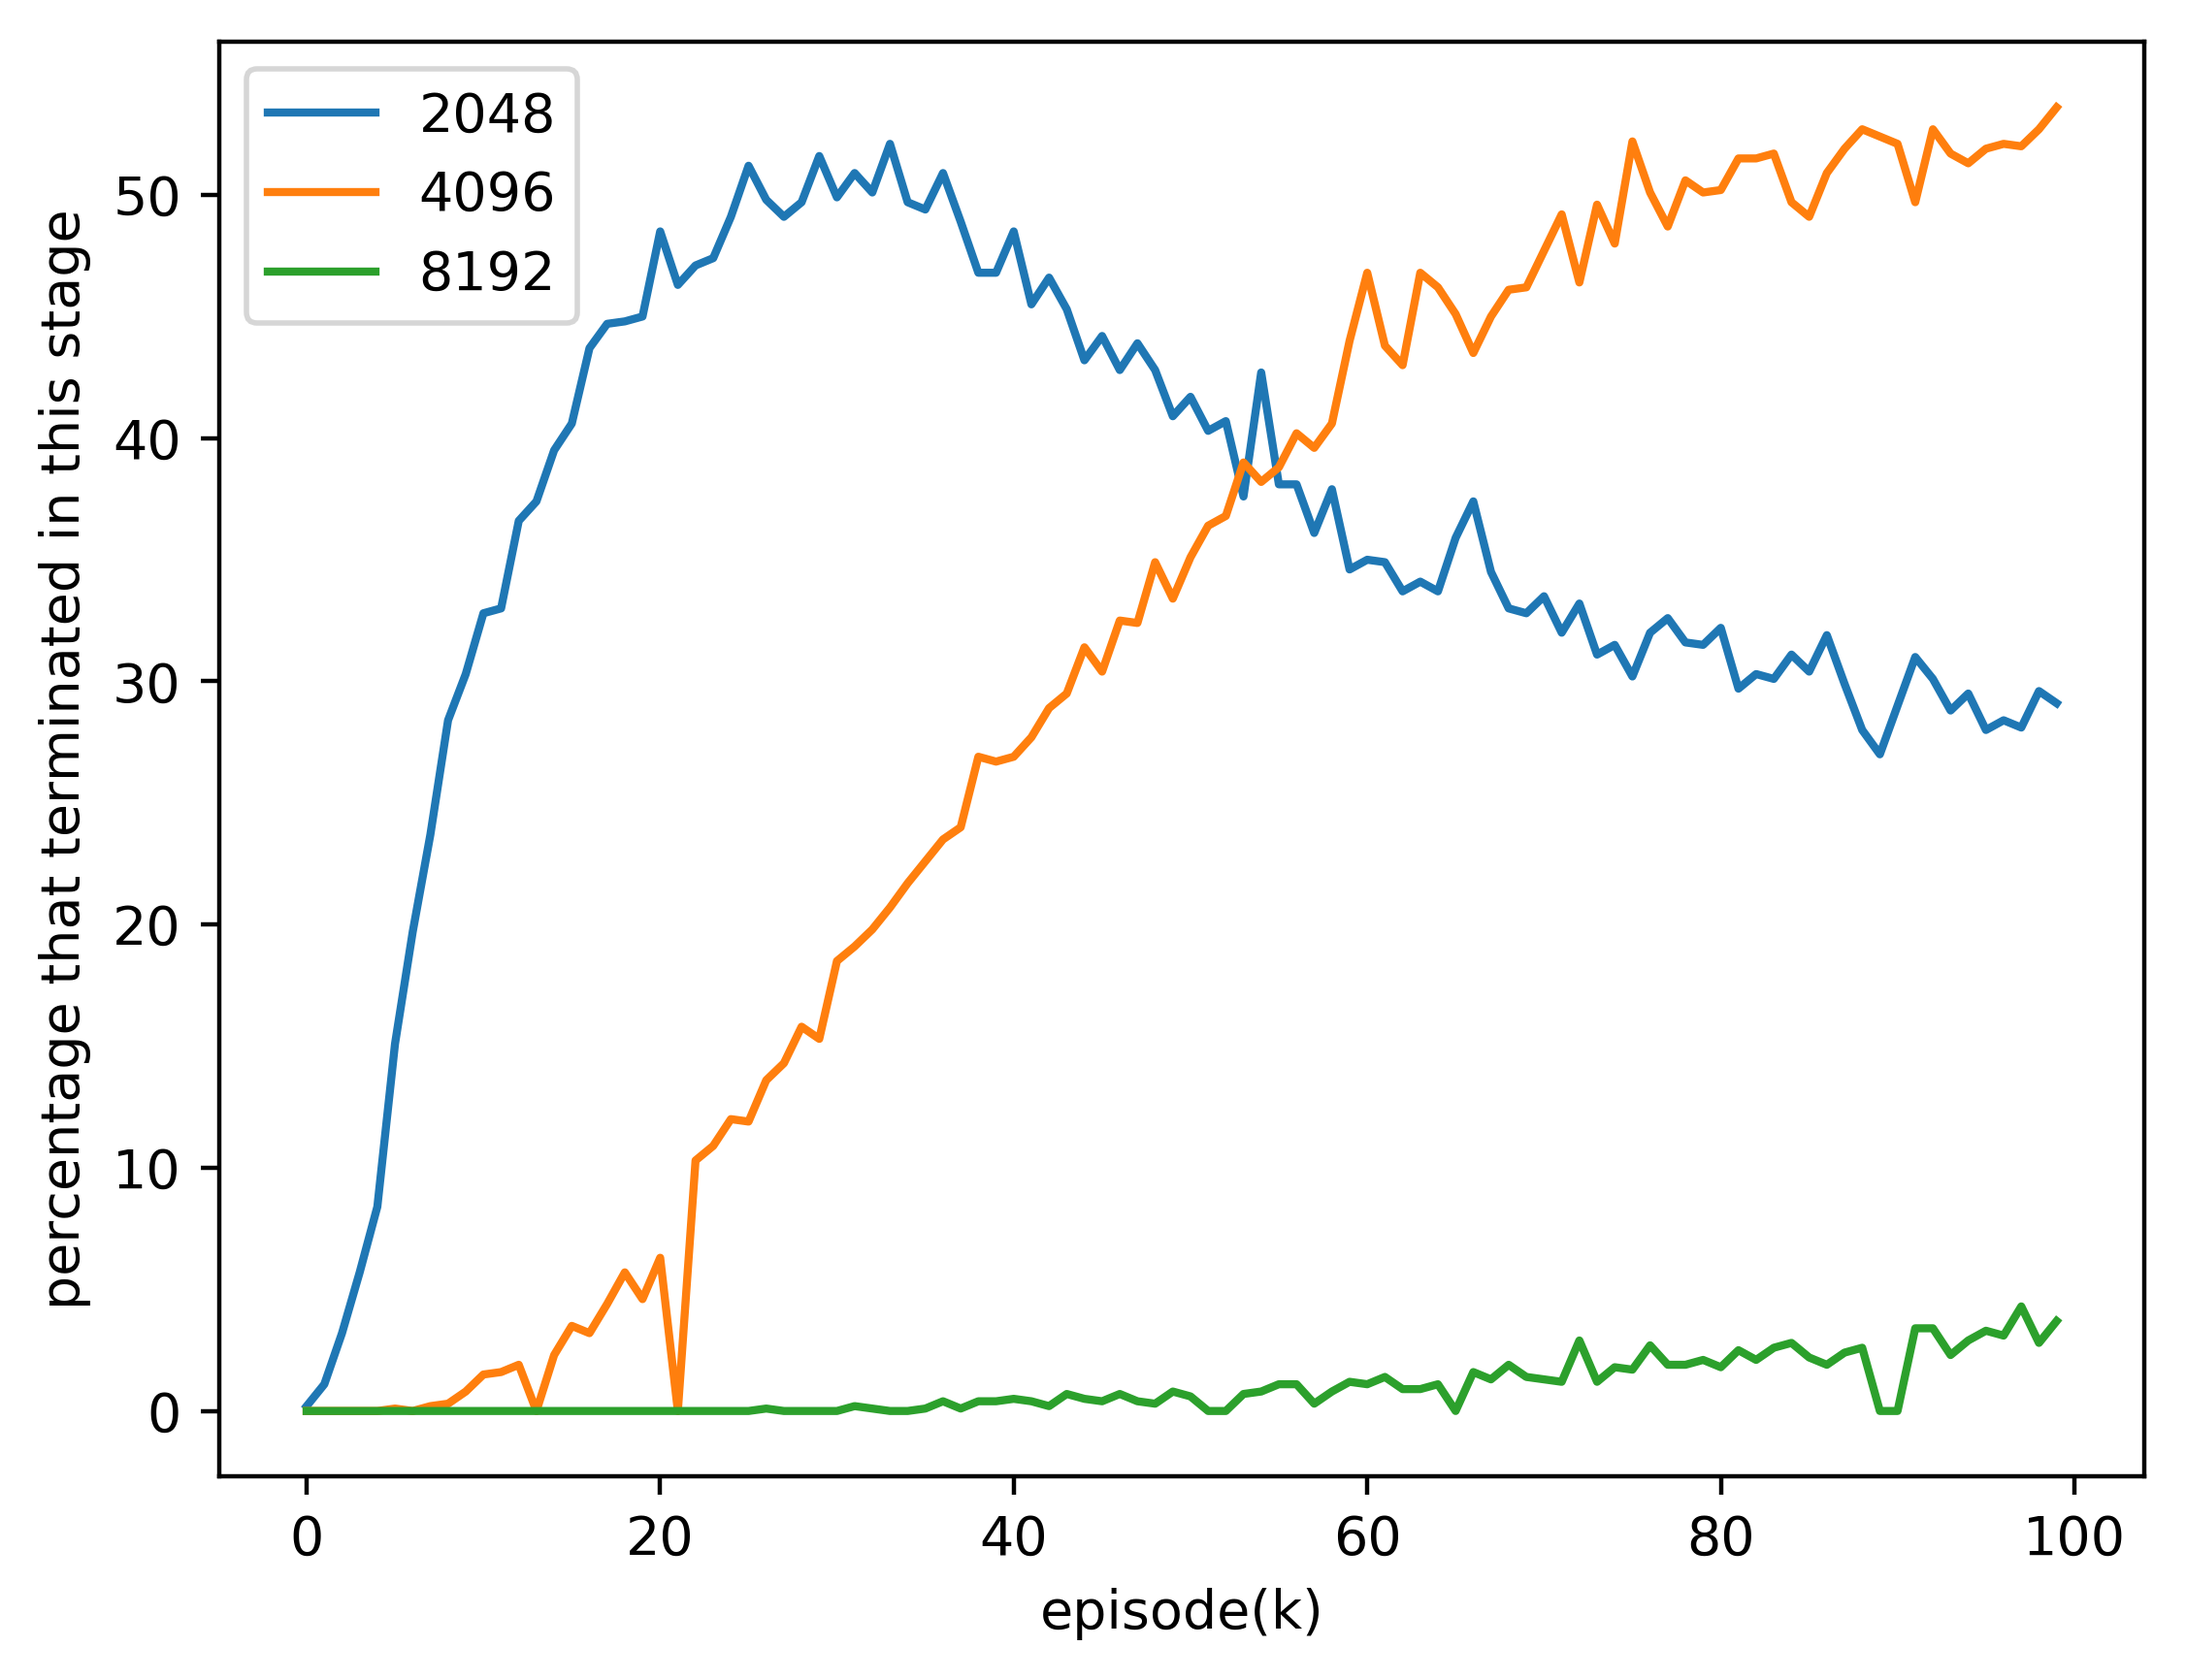
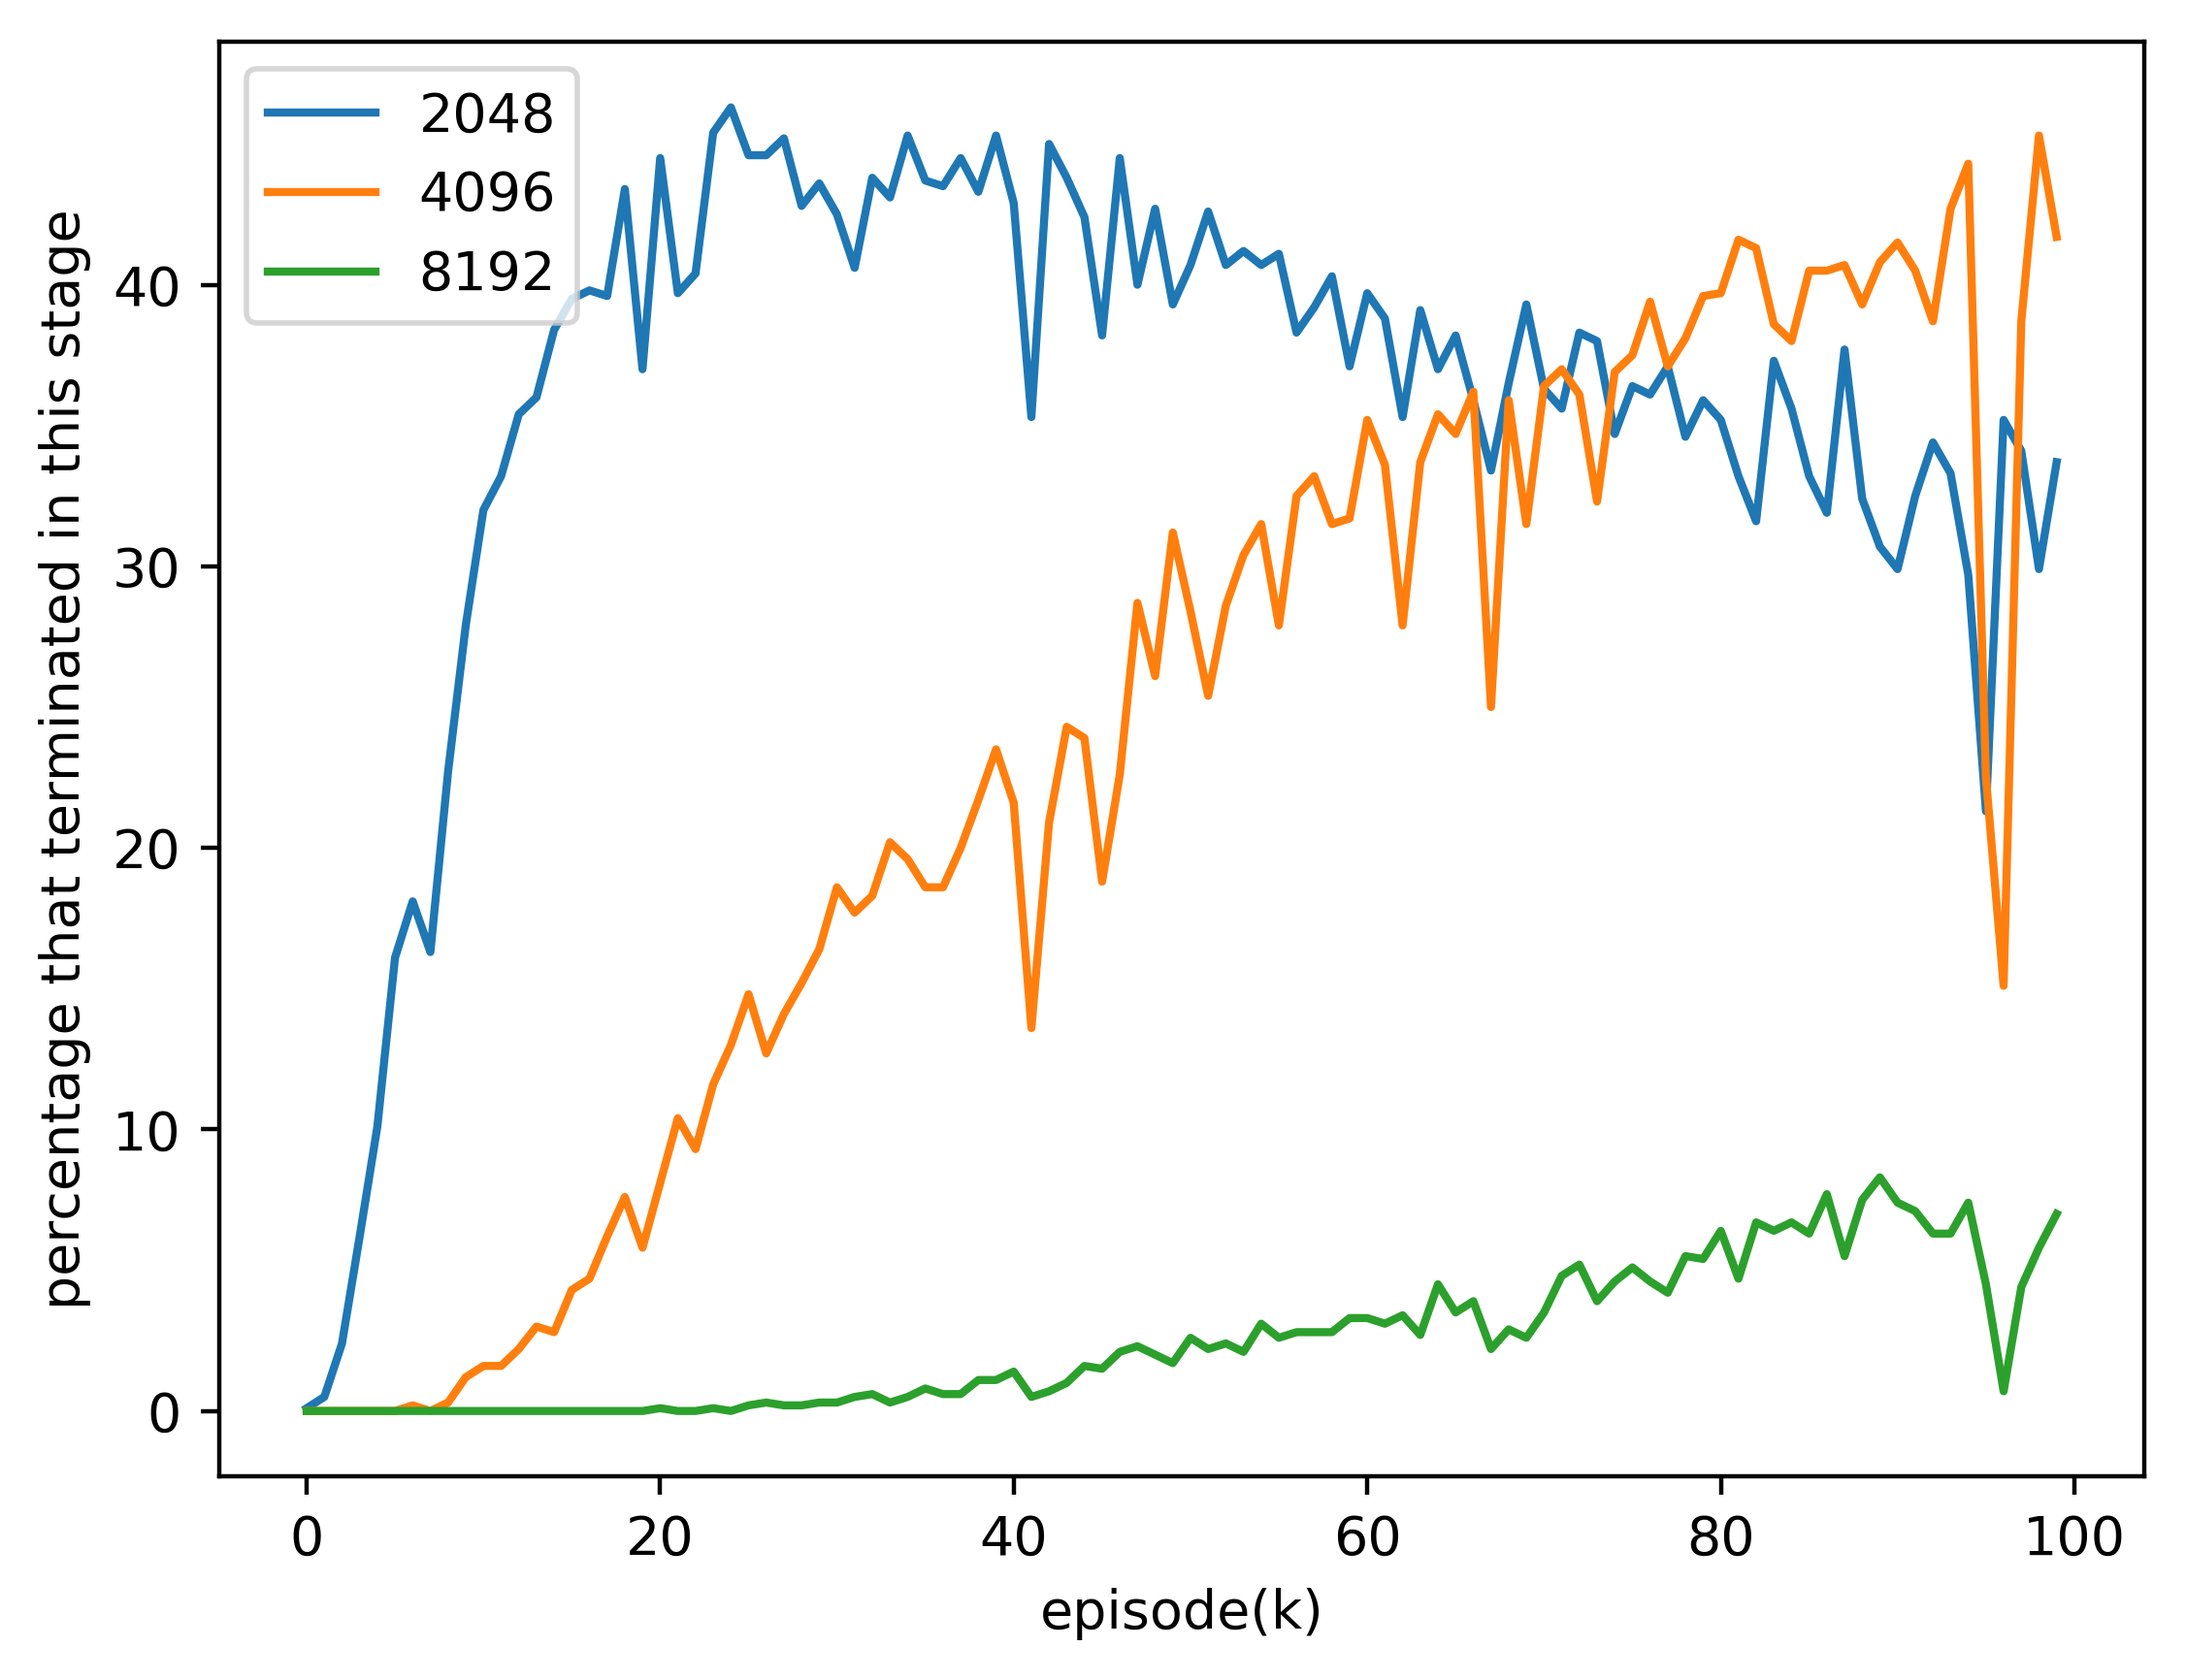
update result

diff --git a/VisaulizeMultipleResult.py b/VisaulizeMultipleResult.py
@@ -4,7 +4,7 @@ import numpy as np
 import argparse
 
 row = 100
-filename = 'Results/TDStatePercentage.csv'
+filename = 'Results/AfterStatePercentage100k.csv'
 
 def read_table(file):
     dta = []
@@ -15,7 +15,7 @@ def read_table(file):
 def get_train_loss(dta, col):
     loss = []
     for r in range(dta.shape[0]):
-        if len(dta[r][col]) > 1:
+        if len(dta[r]) > col:
             loss.append(float(dta[r][col]))
         else:
             loss.append(0)

diff --git a/VisaulizeResult.py b/VisaulizeResult.py
@@ -4,7 +4,7 @@ import numpy as np
 import argparse
 
 row = 100
-filename = 'Results/AfterStateScore.csv'
+filename = 'Results/AfterStateScore100k.csv'
 
 def read_table(file):
     dta = []
